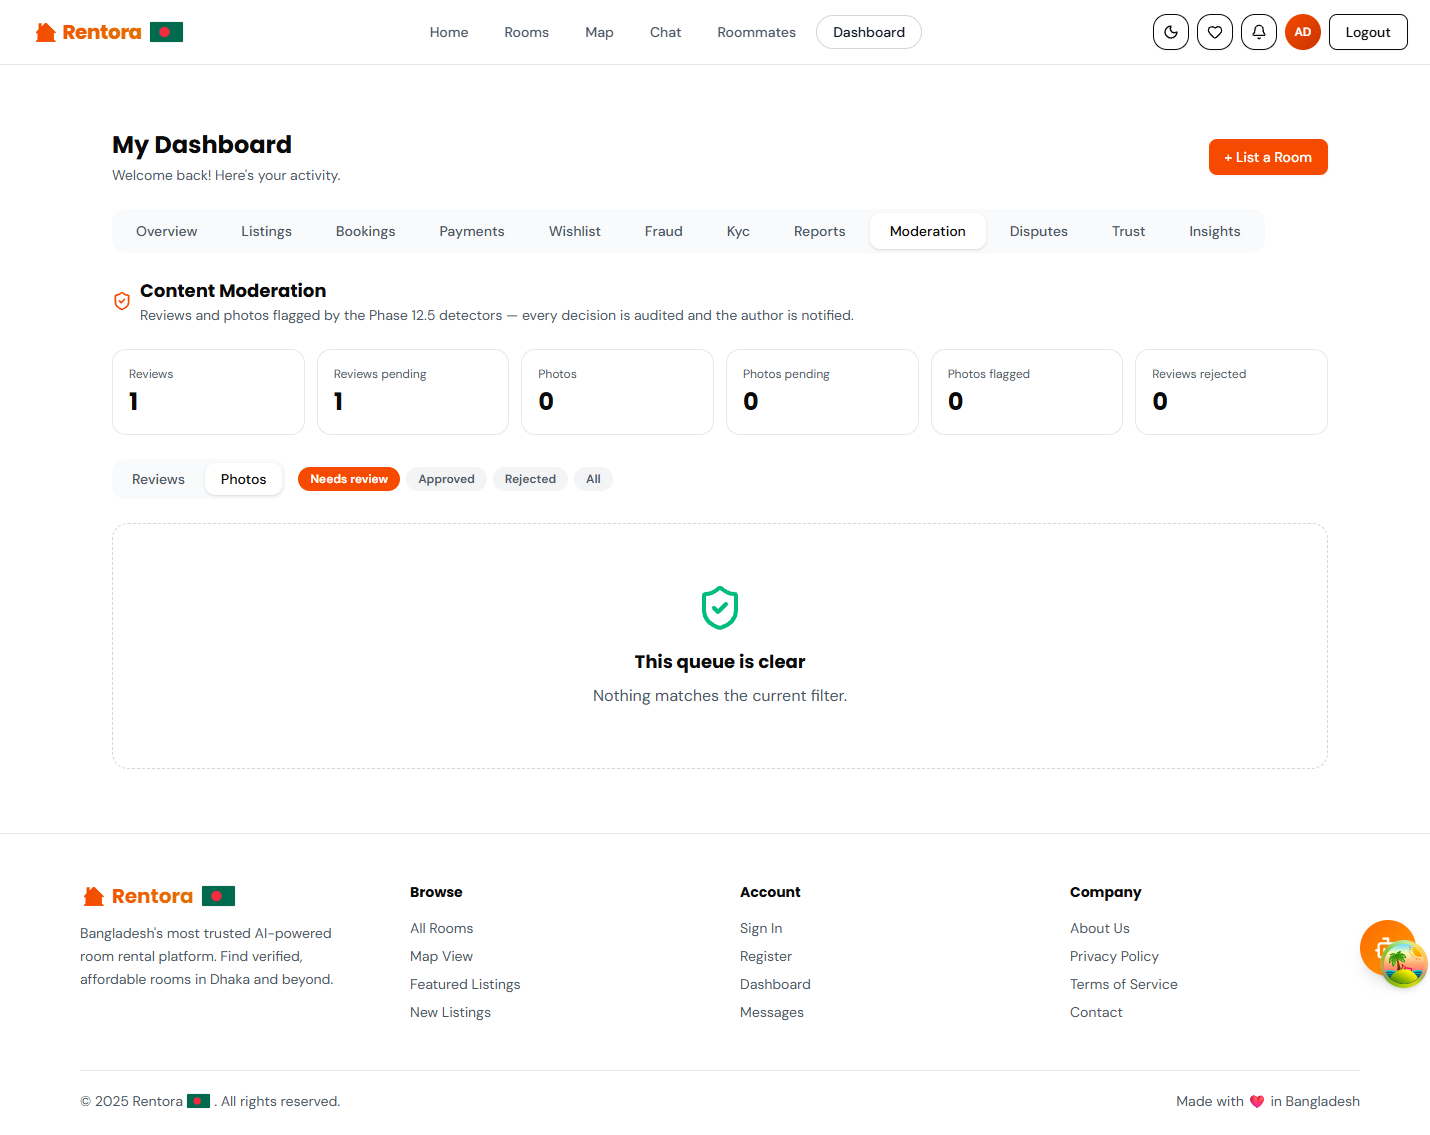
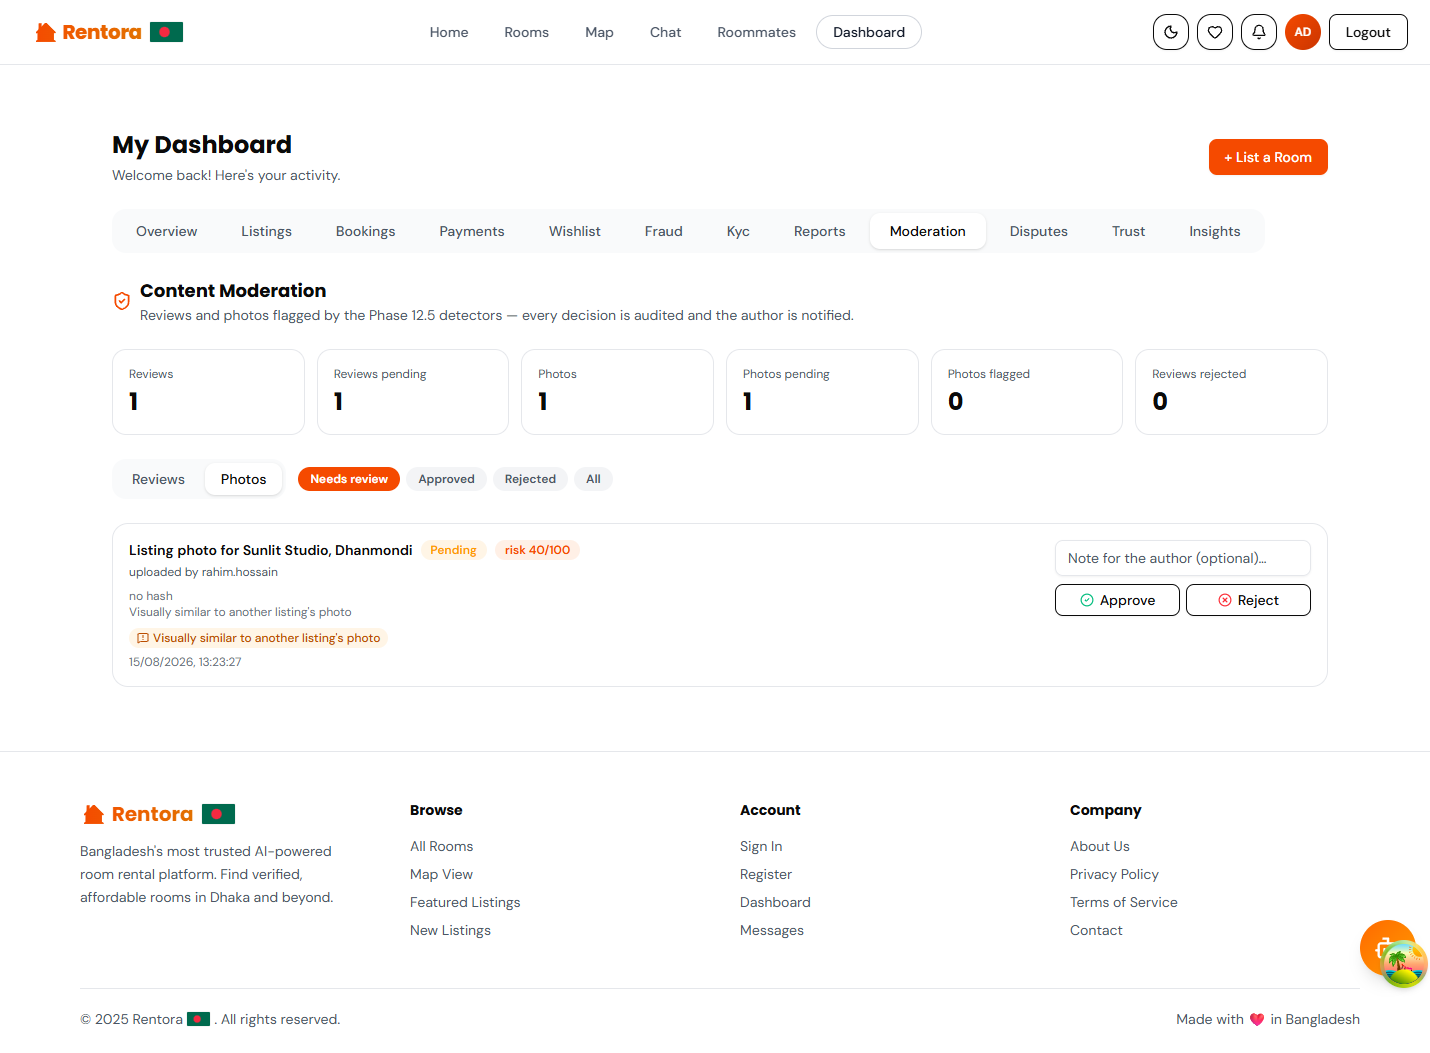
fix(seed): seed a real photo-moderation record so the photos queue demo renders
The Phase 12 demo seeder only created the flagged PhotoModeration when the
landlord's room already had a RoomImage — the seeded room never did, so the
photos queue stayed empty and the README screenshot showed an empty state.
Fall back to any real seeded listing photo (with the room's own thumbnail
URL + owner) so the moderation-photos capture shows the flagged duplicate
photo. Regenerated the screenshot gallery to match.

🤖 Generated with Codebuff

diff --git a/backend/scripts/seed_phase12_demo.py b/backend/scripts/seed_phase12_demo.py
@@ -141,22 +141,25 @@ def main():
     )
 
     # ---- Flagged listing photo (duplicate-image evidence) --------------
-    image = RoomImage.objects.filter(room=room).first()
+    # The landlord's demo room may have no images, so fall back to any real
+    # seeded listing photo — the moderation queue needs a real record whose
+    # thumbnail URL actually resolves.
+    image = RoomImage.objects.filter(room=room).first() or RoomImage.objects.order_by("id").first()
     if image is not None:
         PhotoModeration.objects.get_or_create(
             image=image,
             defaults={
                 "target_type": PhotoModeration.TargetType.LISTING,
-                "room": room,
+                "room": image.room,
                 "image_url": image.image.url,
-                "uploaded_by": landlord,
+                "uploaded_by": image.room.owner,
                 "status": ModerationStatus.PENDING,
                 "risk_score": 40,
                 "signals": [
                     {
                         "key": "duplicate_image",
                         "label": "Visually similar to another listing's photo",
-                        "matches": [{"room_id": 1, "title": "Modern Studio, Dhanmondi"}],
+                        "matches": [{"room_id": image.room_id, "title": image.room.title}],
                     }
                 ],
             },
